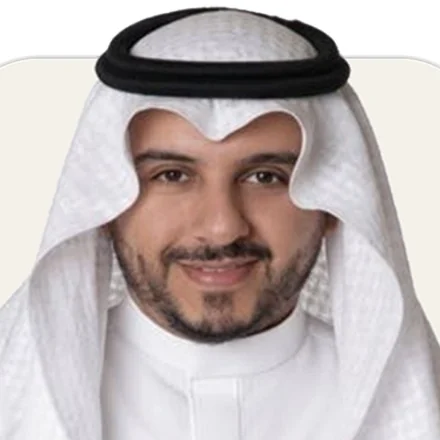
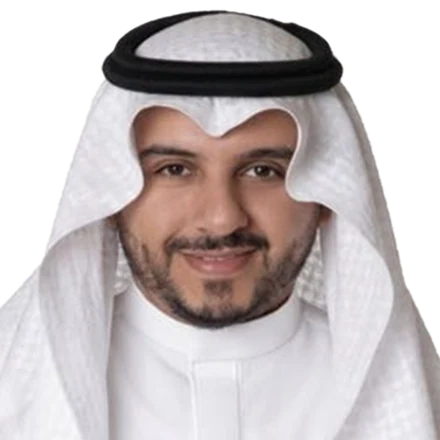
Team page: leadership arranged as on uhearu.com; group portraits match the leaders
- Leadership order, wording and card structure follow uhearu.com:
  the General Manager in the middle, raised; المحامي → name → title →
  credentials → rule → bio; bios and address taken from uhearu.com
- Group leaders cut out of their studio backgrounds (OpenCV GrabCut) and set
  on the same navy-and-gold light as the leadership arches; always in colour
- Lama Al-Zayyadi's medallion: the gold mark on navy

Changed region(s): [[0.0, 0.0, 1.0, 1.0], [0.2955, 0.7386, 0.325, 0.7682], [0.0, 0.7682, 0.0295, 0.7977]]

diff --git a/concepts/shared/content.ts b/concepts/shared/content.ts
@@ -24,11 +24,11 @@ export const contact = {
   address: {
     country: 'المملكة العربية السعودية',
     city: 'مكة المكرمة',
-    line: 'العوالي – المحيسني سنتر',
+    line: 'العوالي – سنتر العوالي', // as on uhearu.com
   },
   mapsUrl:
     'https://www.google.com/maps/search/?api=1&query=' +
-    encodeURIComponent('المحيسني سنتر، العوالي، مكة المكرمة'),
+    encodeURIComponent('سنتر العوالي، العوالي، مكة المكرمة'),
 } as const;
 
 export type Page = 'home' | 'team';
@@ -158,24 +158,35 @@ export const team = {
   leadership: {
     label: 'القيادة',
     title: 'الطاقم الإداري',
+    // Order, wording and arrangement follow uhearu.com (the client's choice):
+    // the General Manager in the middle, raised; the executive director to his right.
     members: [
       {
-        name: 'د. فيصل بن سعد العصيمي',
-        role: 'المدير العام',
-        photo: 'osaimi',
-        bio: 'خبرة في القضاء الإداري والجزائي والتجاري، ومحامٍ مرخص ومحكم معتمد، وأكاديمي ومدرب معتمد، وعضو سابق في هيئة الخبراء بمجلس الوزراء، وحاصل على رخصة فال العقارية.',
-      },
-      {
+        label: 'المحامي',
         name: 'د. عبد الهادي بن قليل الخديدي',
-        role: 'المدير التنفيذي',
+        role: 'المدير التنفيذي لشركة الفيصل للمحاماة',
+        creds: 'محامٍ ومحكّم ومستشار قانوني',
         photo: 'khudaidi',
-        bio: 'دكتور في الشريعة والقانون، ومحامٍ ومحكم دولي معتمد، بخبرة تتجاوز 25 عامًا في الأمن والتحقيقات والقانون، وخبرة في تطوير الأداء المؤسسي والعدلي، وحاصل على رخصة فال العقارية.',
+        featured: false,
+        bio: 'ضابط سابق برتبة قيادية بخبرة تتجاوز 25 عامًا في التحقيقات والاستشارات القانونية وإدارة الأزمات، حاصل على الدكتوراه في الشريعة والقانون، وخبير متمكن في إرساء قواعد الحوكمة وإدارة المخاطر، والتحكيم الدولي.',
       },
       {
-        name: 'المحامي عبدالرحمن بن مريسي الحارثي',
-        role: 'مدير قطاع الخدمات القانونية',
+        label: 'المحامي',
+        name: 'د. فيصل بن سعد العصيمي',
+        role: 'المدير العام لشركة الفيصل للمحاماة',
+        creds: 'محامٍ ومحكّم ومستشار قانوني',
+        photo: 'osaimi',
+        featured: true,
+        bio: 'خبرة قضائية 11 عامًا في القضاء التجاري والجزائي والإداري، وخبرة تتجاوز 10 أعوام في التدريب والتدريس الأكاديمي، شارك في صياغة الأنظمة بهيئة الخبراء بمجلس الوزراء، وحاصل على الدكتوراه في الشريعة والقانون، وخبير في إدارة التسويات المالية والتصفية والاستشارات التشريعية.',
+      },
+      {
+        label: 'المحامي',
+        name: 'عبد الرحمن بن مريسي الحارثي',
+        role: 'مدير قطاع الخدمات القانونية بشركة الفيصل للمحاماة',
+        creds: 'محامٍ ومحكّم ومستشار قانوني',
         photo: 'harthi',
-        bio: 'يشرف على قطاع الخدمات القانونية ضمن منظومة العمل المؤسسي للشركة. خبرة قضائية 10 أعوام، حاصل على الماجستير في الشريعة والأنظمة، والدبلوم العالي في القانون من معهد الإدارة العامة، وخبير متمكن في تطوير أنظمة الامتثال وإدارة العمليات وقيادة الفرق القانونية.',
+        featured: false,
+        bio: 'خبرة قضائية 10 أعوام، حاصل على الماجستير في الشريعة والأنظمة، والدبلوم العالي في القانون من معهد الإدارة العامة، وخبير متمكن في تطوير أنظمة الامتثال وإدارة العمليات وقيادة الفرق القانونية.',
       },
     ],
   },

diff --git a/concepts/1-dark-luxury/src/styles/global.css b/concepts/1-dark-luxury/src/styles/global.css
@@ -1772,13 +1772,23 @@ html.short .th { min-height: 0; padding-top: calc(var(--hdr) + 6vh); }
 .ldr__item.is-hover .arch__frame path { opacity: 1; filter: drop-shadow(0 0 6px rgba(226, 190, 118, 0.75)); }
 .ldr__item.is-hover .arch__sheen { opacity: 1; }
 .ldr__item.is-hover .arch__img { filter: saturate(1) contrast(1.05) brightness(1.05); }
-.ldr__text { max-width: 24rem; margin-top: 52px; }
-.ldr__role { font-size: var(--fs-small); font-weight: 700; line-height: 1.7; color: var(--gold-hi); }
-.ldr__name { margin-top: 4px; font-size: var(--fs-h3); line-height: 1.55; }
-.ldr__bio { margin-top: 12px; font-size: var(--fs-body); line-height: 1.95; color: var(--ink-2); }
+/* the card follows uhearu.com: المحامي → name → title → credentials → rule → bio */
+.ldr__text { display: flex; flex-direction: column; align-items: center; max-width: 25rem; margin-top: 30px; }
+.ldr__label { font-size: var(--fs-label); font-weight: 700; line-height: 1.7; color: var(--ink-3); }
+.ldr__name { margin-top: 2px; font-size: var(--fs-h3); line-height: 1.55; }
+.ldr__role { margin-top: 4px; font-size: var(--fs-small); font-weight: 700; line-height: 1.75; color: var(--gold-hi); }
+.ldr__creds { margin-top: 2px; font-size: var(--fs-label); font-weight: 700; line-height: 1.7; color: var(--ink-3); }
+.ldr__rule { display: block; width: 44px; height: 1px; margin-top: 16px; background: linear-gradient(90deg, transparent, var(--gold), transparent); }
+.ldr__bio { margin-top: 16px; font-size: var(--fs-body); line-height: 1.95; color: var(--ink-2); }
+/* the General Manager stands in the middle, raised, his frame the brightest */
+@media (min-width: 861px) {
+  .ldr__item.is-featured { margin-top: -56px; }
+}
+.ldr__item.is-featured .arch__frame path { opacity: 1; filter: drop-shadow(0 0 7px rgba(226, 190, 118, 0.6)); }
+.ldr__item.is-featured .arch__halo { opacity: 0.8; }
 @media (max-width: 860px) {
   .ldr { padding-block: 10vh; }
-  .ldr__list { grid-template-columns: 1fr; gap: 10vh; margin-top: 6vh; }
+  .ldr__list { grid-template-columns: 1fr; gap: 9vh; margin-top: 6vh; }
   .arch { width: min(76vw, 320px); }
 }
 
@@ -1848,7 +1858,10 @@ html.short .th { min-height: 0; padding-top: calc(var(--hdr) + 6vh); }
   aspect-ratio: 1;
   overflow: hidden;
   border-radius: 50%;
-  background: #efe9dd;
+  /* the same light as the leadership arches: a warm glow behind the head on deep navy */
+  background:
+    radial-gradient(70% 56% at 50% 30%, rgba(226, 190, 118, 0.26), transparent 72%),
+    linear-gradient(180deg, #16263f 0%, #0c1729 60%, #070c17 100%);
   box-shadow: 0 0 0 3px rgba(7, 11, 20, 0.92), 0 0 0 4px rgba(226, 190, 118, 0.5), 0 26px 50px -18px rgba(0, 0, 0, 0.85);
   transition: box-shadow 0.8s var(--ease);
 }
@@ -1856,12 +1869,13 @@ html.short .th { min-height: 0; padding-top: calc(var(--hdr) + 6vh); }
   width: 100%;
   height: 100%;
   object-fit: cover;
-  filter: grayscale(0.45) sepia(0.2) brightness(0.9);
+  object-position: 50% 0;
+  transform-origin: 50% 100%;
   transition: filter 0.9s var(--ease), transform 1.4s var(--ease);
 }
-.gc__disc .gc__logo { object-fit: contain; padding: 15%; background: #f3efe6; filter: none; }
+.gc__disc .gc__logo { object-fit: contain; object-position: 50% 50%; padding: 17%; transform-origin: 50% 50%; }
 .gc__trigger:hover .gc__disc img,
-.gc.is-open .gc__disc img { filter: none; transform: scale(1.05); }
+.gc.is-open .gc__disc img { filter: brightness(1.06); transform: scale(1.05); }
 .gc__trigger:hover .gc__disc .gc__logo,
 .gc.is-open .gc__disc .gc__logo { transform: scale(1.04); }
 .gc__trigger:hover .gc__disc,

diff --git a/concepts/1-dark-luxury/src/scripts/team.ts b/concepts/1-dark-luxury/src/scripts/team.ts
@@ -155,19 +155,19 @@ export function createTeamPage(ctx: Ctx) {
    * ---------------------------------------------------------------- */
   function setupLeadership() {
     const items = $$('.ldr__item');
+    const featured = $<HTMLElement>('.ldr__item.is-featured .arch') || $<HTMLElement>('.ldr__item .arch');
     items.forEach((it, i) => {
       const fig = $('.arch', it);
       const frame = $<SVGPathElement>('.arch__frame path', it);
       const win = $('.arch__win', it);
       const img = $('.arch__img', it);
-      const idx = $('.arch__idx', it);
-      const role = $('.ldr__role', it);
+      const meta = $$('.ldr__label, .ldr__role, .ldr__creds, .ldr__rule', it);
       const name = splitWords($('.ldr__name', it));
       const bio = $('.ldr__bio', it);
       gsap.set(frame, { attr: { 'stroke-dasharray': '1 1' }, strokeDashoffset: 1 });
       gsap.set(win, { clipPath: 'inset(100% 0% 0% 0% round 999px 999px 6px 6px)' });
       gsap.set(img, { yPercent: 14, scale: 1.06 });
-      gsap.set([idx, role], { opacity: 0, y: 12 });
+      gsap.set(meta, { opacity: 0, y: 12 });
       gsap.set(name, { yPercent: 118 });
       bio.classList.add('wiping');
       bio.style.setProperty('--wp', '0');
@@ -181,8 +181,7 @@ export function createTeamPage(ctx: Ctx) {
           tl.to(frame, { strokeDashoffset: 0, duration: 1.5, ease: 'power2.inOut' }, 0)
             .to(win, { clipPath: 'inset(0% 0% 0% 0% round 999px 999px 6px 6px)', duration: 1.25, ease: EASE.io }, 0.25)
             .to(img, { yPercent: 0, scale: 1, duration: 1.6, ease: EASE.out }, 0.35)
-            .to(idx, { opacity: 1, y: 0, duration: 1, ease: EASE.out }, 0.9)
-            .to(role, { opacity: 1, y: 0, duration: 1, ease: EASE.out }, 0.7)
+            .to(meta, { opacity: 1, y: 0, duration: 1, ease: EASE.out, stagger: 0.08 }, 0.7)
             .to(name, { yPercent: 0, duration: 1.1, ease: EASE.out, stagger: 0.05 }, 0.8)
             .add(() => wipeIn(bio, { duration: 1.5 }), 1.0)
             .add(() => fig.classList.add('is-lit'), 1.1);
@@ -209,12 +208,13 @@ export function createTeamPage(ctx: Ctx) {
         });
         fig.addEventListener('pointerleave', () => {
           it.classList.remove('is-hover');
+          if (sceneLight.leadership) sceneLight.leadership.anchor = featured;
           rx(0); ry(0);
         });
       }
     });
     // without a pointer, the light follows the arch nearest the middle of the screen
-    if (sceneLight.leadership) sceneLight.leadership.anchor = $<HTMLElement>('.ldr__item .arch');
+    if (sceneLight.leadership) sceneLight.leadership.anchor = featured;
     if (!finePointer) {
       const figs = $$('.ldr__item .arch');
       ScrollTrigger.create({
